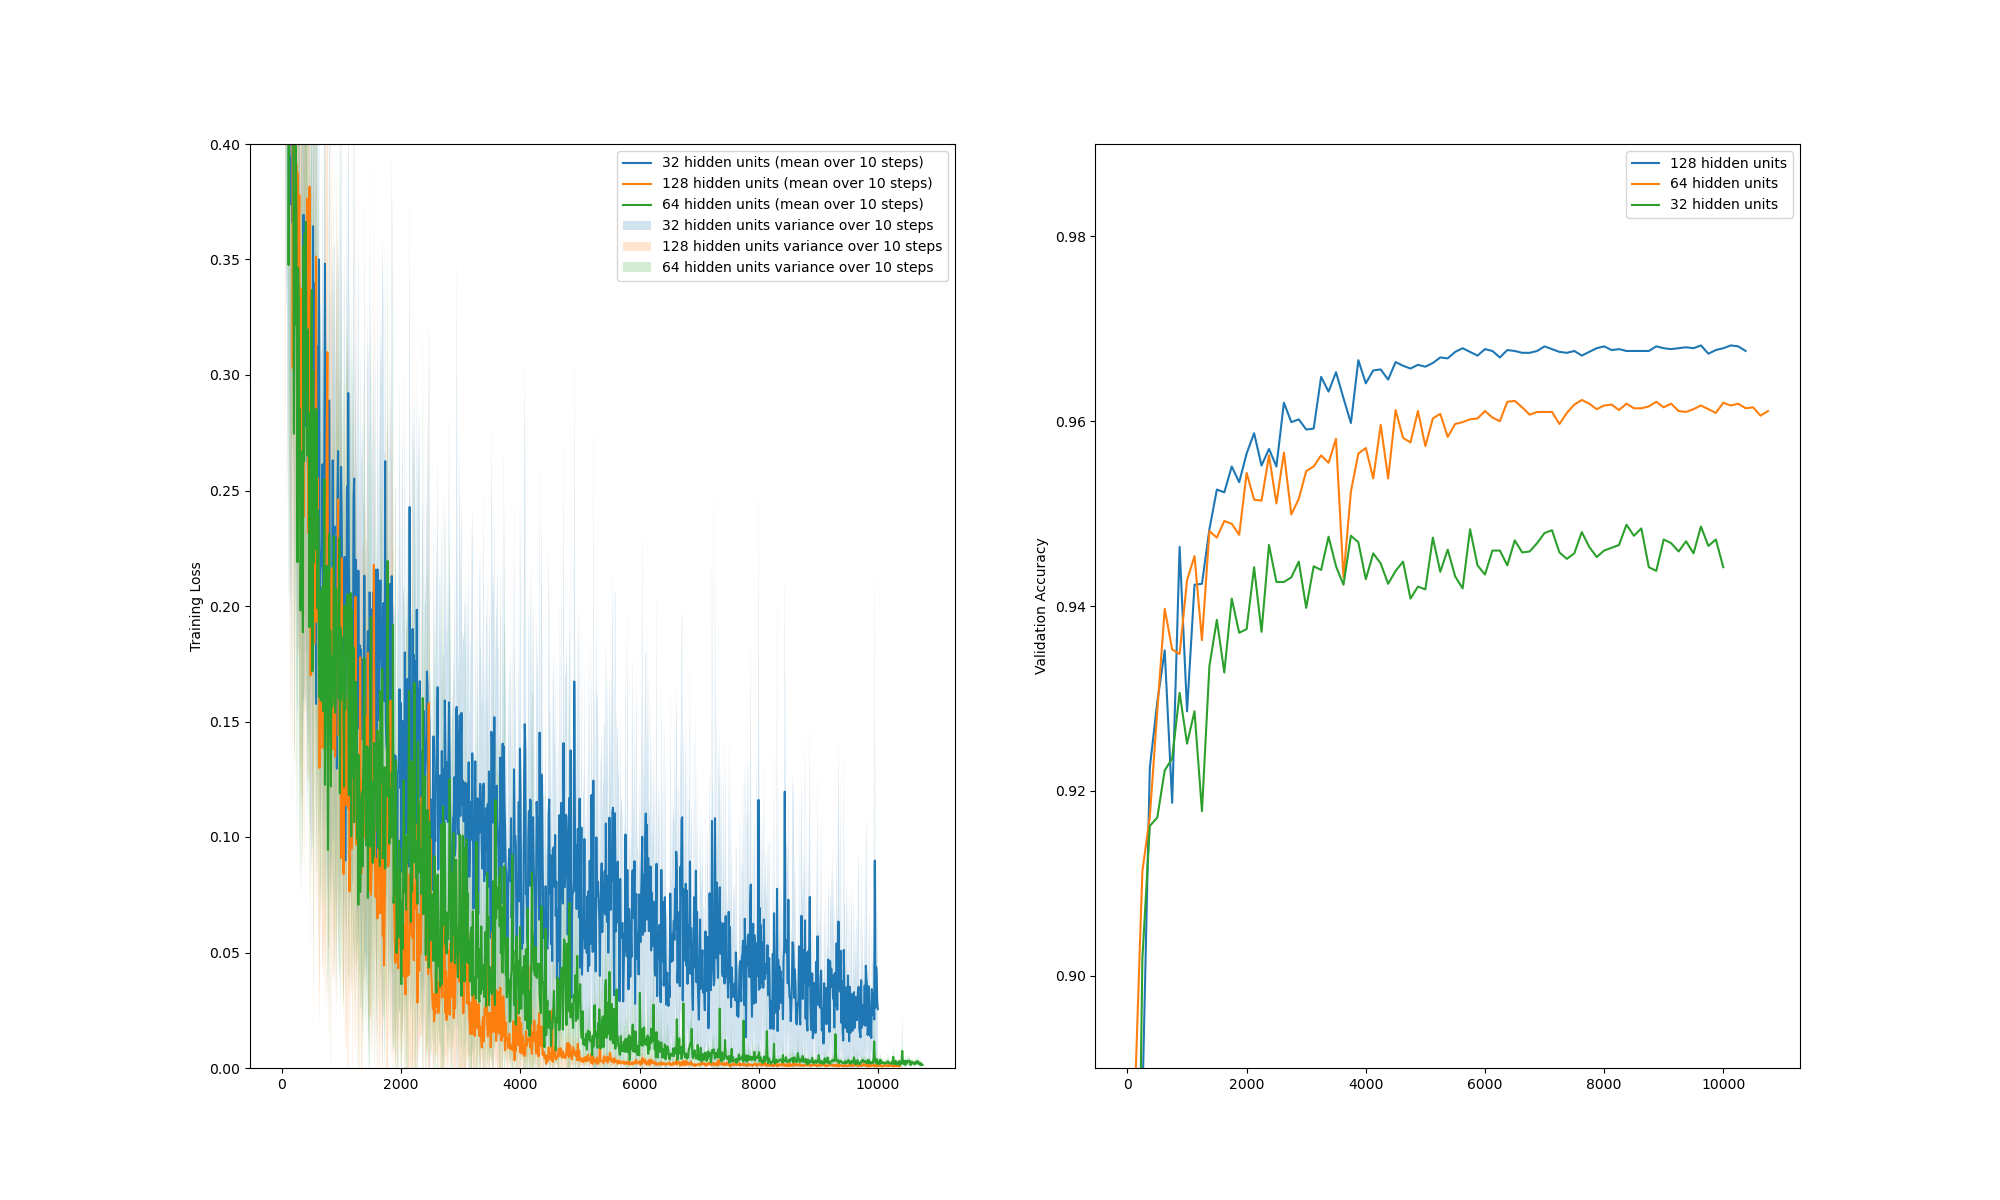
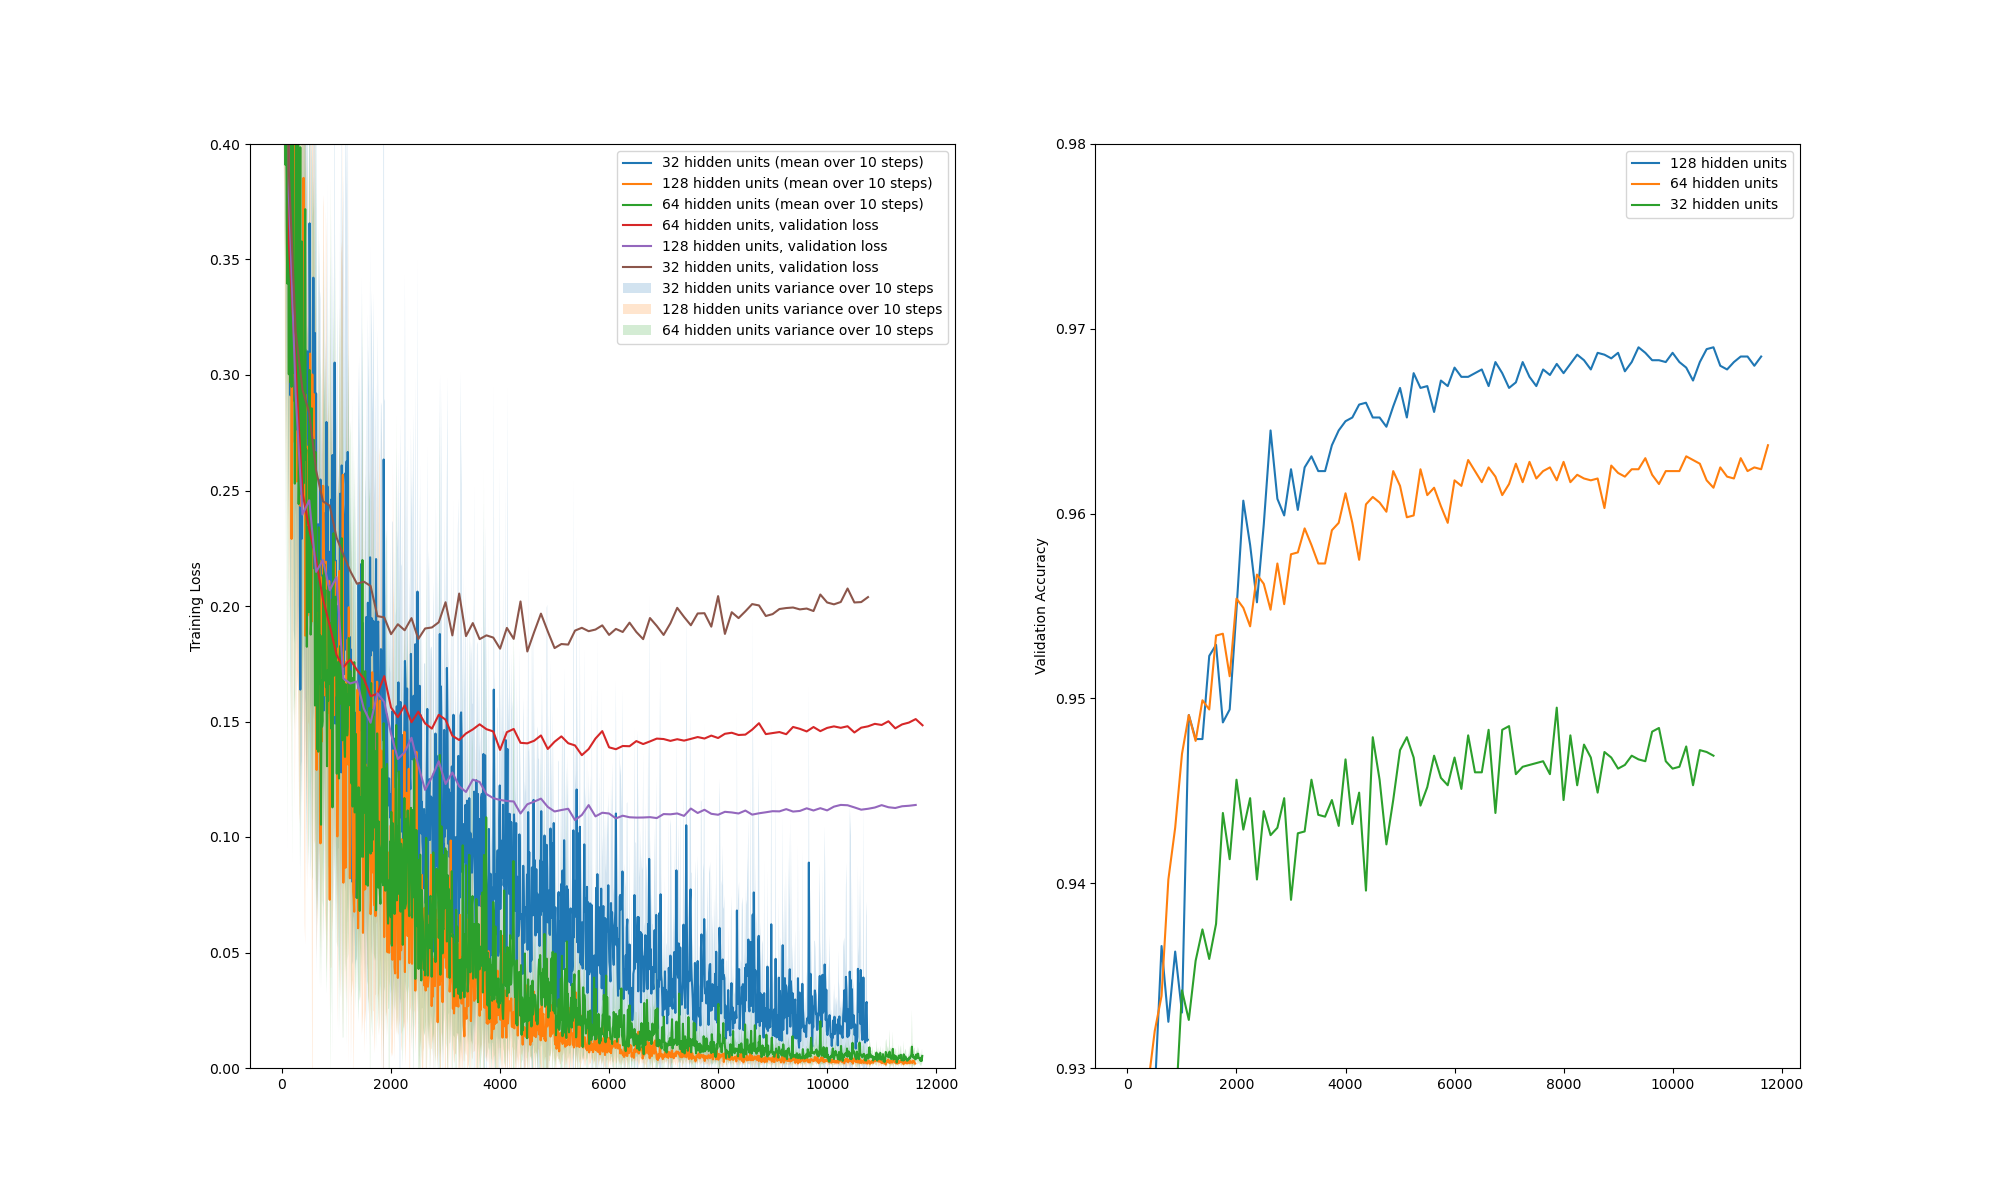
final touch

diff --git a/assignment2/task3.py b/assignment2/task3.py
@@ -29,7 +29,7 @@ if __name__ == "__main__":
     ##########################
     # Shuffled vs unshuffled #
     ##########################
-    
+    '''
     shuffle_data = True
     model = SoftmaxModel(
         neurons_per_layer,
@@ -77,7 +77,7 @@ if __name__ == "__main__":
     plt.legend()
     plt.savefig("task3.png")
     plt.show()
-    
+    '''
     #################
     #Task 3 below   #
     #################
@@ -152,20 +152,21 @@ if __name__ == "__main__":
         val_history_final["accuracy"], "Using momentum")
     plt.ylabel("Validation Accuracy")
     plt.legend()
-    plt.savefig("task3_2.png")
+    plt.savefig("task3_2_momentum(2).png")
     plt.show()
     
     
-    '''
+    
     '''
     
     ##############################
     #Task 4 a and b below        #
     ##############################
     #Model from task 3
+    shuffle_data = True
     use_improved_sigmoid = True
     use_improved_weight_init = True
-    use_momentum = True
+    use_momentum = False
 
 
 
@@ -178,7 +179,7 @@ if __name__ == "__main__":
         use_improved_weight_init)
     trainer_shuffle = SoftmaxTrainer(
         momentum_gamma, use_momentum,
-        model_32, learning_rate_momentum, batch_size, shuffle_data,
+        model_32, learning_rate, batch_size, shuffle_data,
         X_train, Y_train, X_val, Y_val,
     )
     train_history_32, val_history_32= trainer_shuffle.train(
@@ -192,7 +193,7 @@ if __name__ == "__main__":
         use_improved_weight_init)
     trainer_shuffle = SoftmaxTrainer(
         momentum_gamma, use_momentum,
-        model_128, learning_rate_momentum, batch_size, shuffle_data,
+        model_128, learning_rate, batch_size, shuffle_data,
         X_train, Y_train, X_val, Y_val,
     )
     train_history_128, val_history_128= trainer_shuffle.train(
@@ -206,7 +207,7 @@ if __name__ == "__main__":
         use_improved_weight_init)
     trainer_shuffle = SoftmaxTrainer(
         momentum_gamma, use_momentum,
-        model_64, learning_rate_momentum, batch_size, shuffle_data,
+        model_64, learning_rate, batch_size, shuffle_data,
         X_train, Y_train, X_val, Y_val,
     )
     train_history_64, val_history_64= trainer_shuffle.train(
@@ -221,12 +222,15 @@ if __name__ == "__main__":
         train_history_128["loss"], "128 hidden units", npoints_to_average=10)
     utils.plot_loss(
         train_history_64["loss"], "64 hidden units", npoints_to_average=10)
+    utils.plot_loss(val_history_64["loss"], "64 hidden units, validation loss")
+    utils.plot_loss(val_history_128["loss"], "128 hidden units, validation loss")
+    utils.plot_loss(val_history_32["loss"], "32 hidden units, validation loss")
     plt.ylabel("Training Loss")
     
     plt.legend()
 
     plt.subplot(1, 2, 2)
-    plt.ylim([0.89, .99])
+    plt.ylim([0.93, .98])
     utils.plot_loss(
         val_history_128["accuracy"], "128 hidden units")
     utils.plot_loss(
@@ -246,7 +250,7 @@ if __name__ == "__main__":
     shuffle_data = True
     use_improved_sigmoid = True
     use_improved_weight_init = True
-    use_momentum = True
+    use_momentum = False
     learning_rate_momentum = 0.02
     neurons_per_layer = [64,64,64,64,64,64,64,64,64,64,10]
     model_64_layers = SoftmaxModel(
@@ -255,7 +259,7 @@ if __name__ == "__main__":
         use_improved_weight_init)
     trainer_shuffle = SoftmaxTrainer(
         momentum_gamma, use_momentum,
-        model_64_layers, learning_rate_momentum, batch_size, shuffle_data,
+        model_64_layers, learning_rate, batch_size, shuffle_data,
         X_train, Y_train, X_val, Y_val,
     )
     train_history_64_layers, val_history_64_layers= trainer_shuffle.train(
@@ -280,6 +284,6 @@ if __name__ == "__main__":
     plt.legend()
     plt.savefig("task4_e.png")
     plt.show()
-    
+    '''
 
     

diff --git a/assignment2/task2.py b/assignment2/task2.py
@@ -61,9 +61,9 @@ class SoftmaxTrainer(BaseTrainer):
         if (self.use_momentum):
            for i,grad in enumerate(model.grads):
                 #self.previous_grads[i] = self.learning_rate*grad + self.momentum_gamma*self.previous_grads[i]
-                model.ws[i] -= self.previous_grads[i]
-                self.previous_grads[i] = self.learning_rate*grad + self.momentum_gamma*self.previous_grads[i]
-                
+                model.ws[i] -= self.learning_rate*self.previous_grads[i]
+                #self.previous_grads[i] = self.learning_rate*grad + self.momentum_gamma*self.previous_grads[i]
+                self.previous_grads[i] = grad + self.momentum_gamma*self.previous_grads[i]
         else:
 
             for i,grad in enumerate(model.grads):
